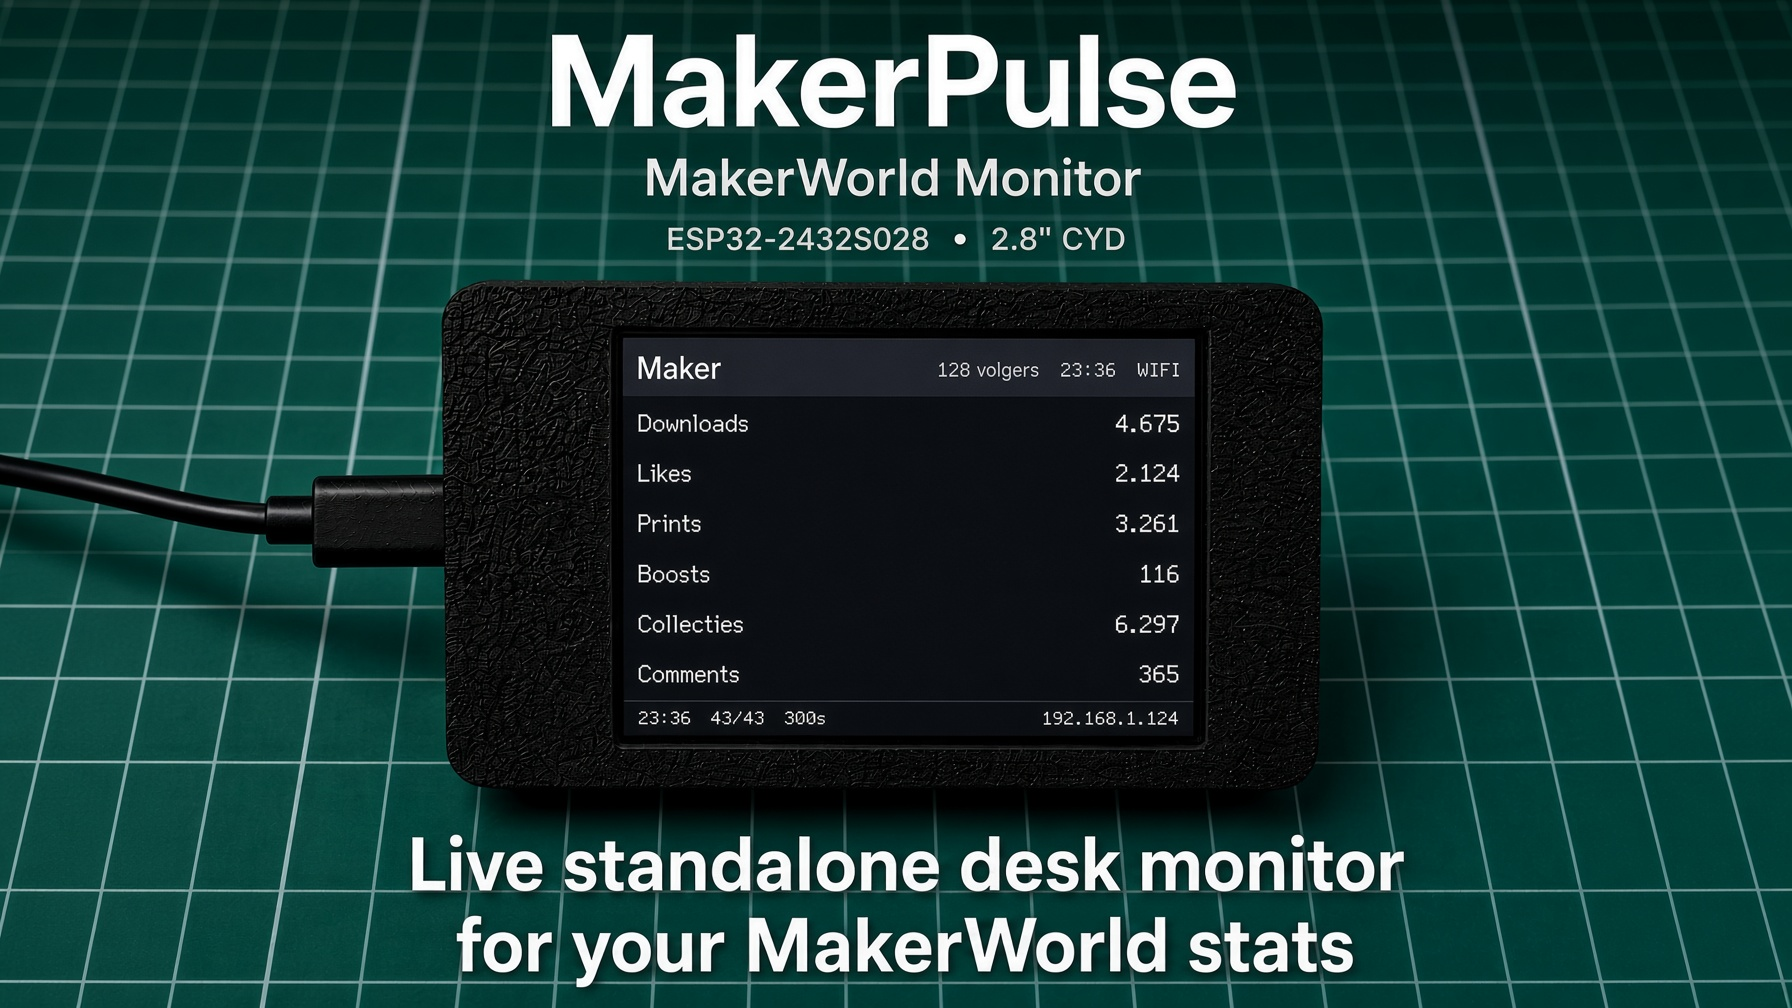
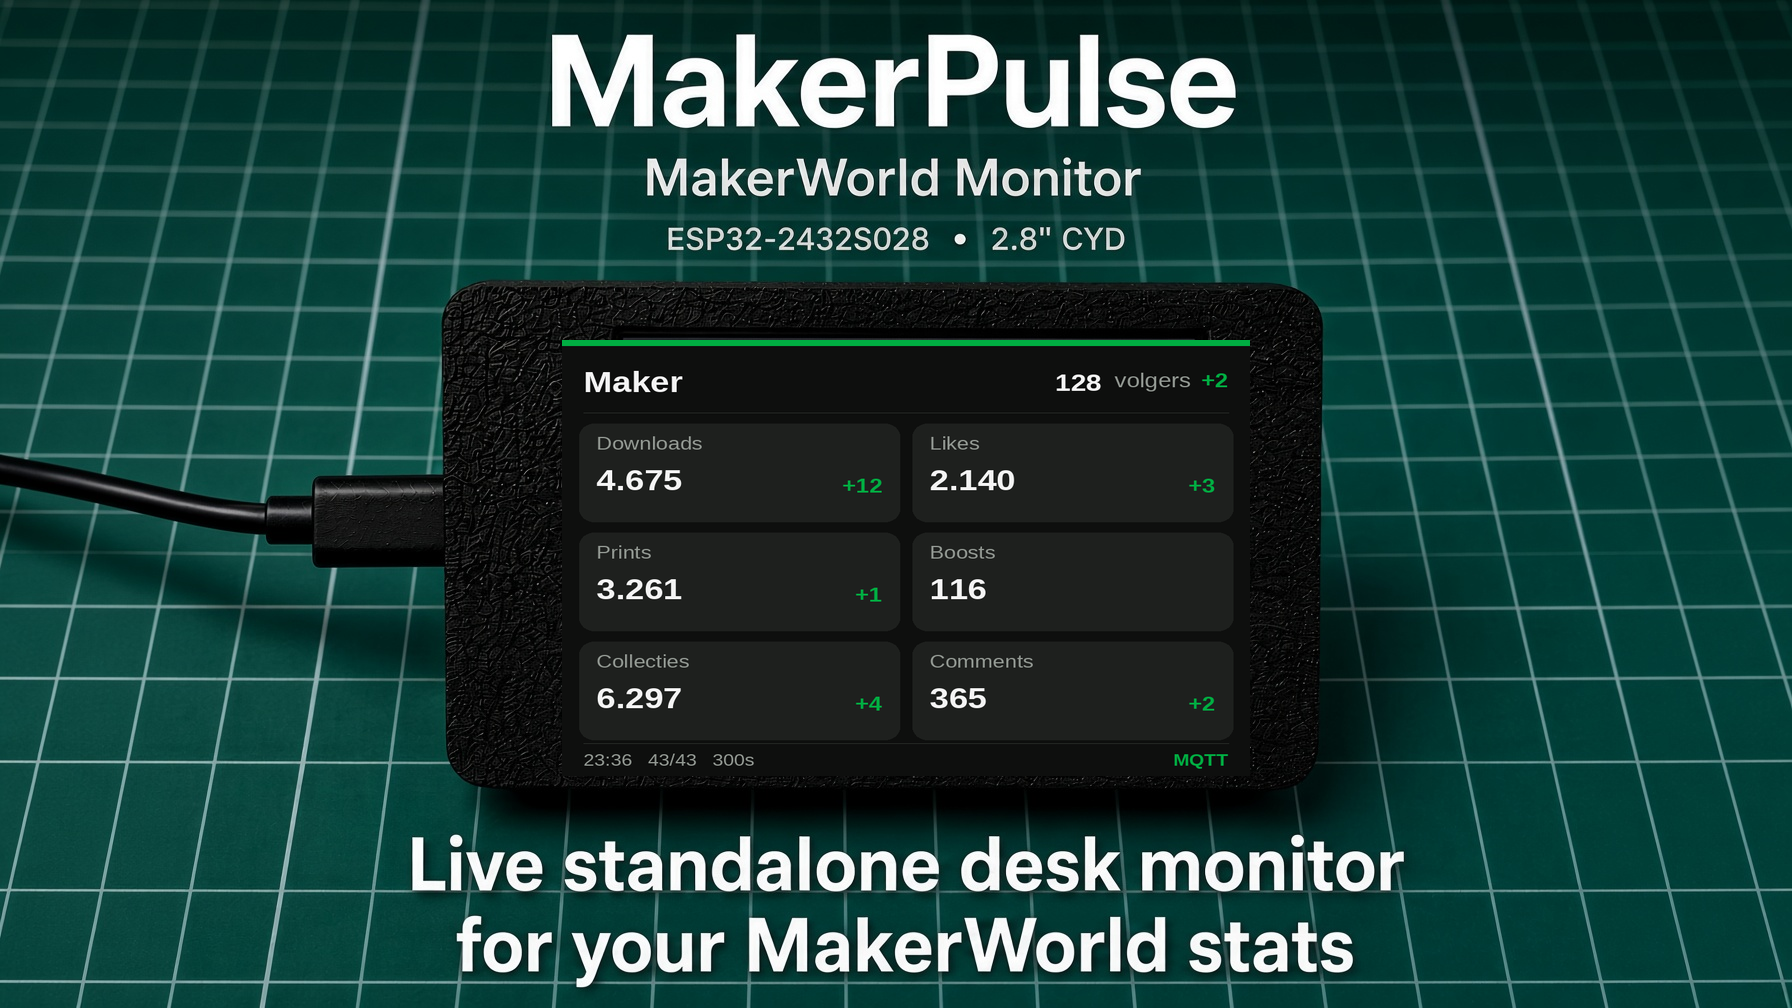
Firmware 2026.11.08a: tile layout for the statistics screen
Show the six totals as dark tiles under a green bar, and refresh the
example images. The checks, Telegram and MQTT behaviour are unchanged.

Changed region(s): [[0.3125, 0.3383, 0.6875, 0.7688], [0.4688, 0.4306, 0.5625, 0.4921], [0.5312, 0.5228, 0.5625, 0.6151]]

diff --git a/README.md b/README.md
@@ -10,7 +10,7 @@ Downloads, likes, prints, boosts, collections and comments — when a value chan
 
 After flashing, the CYD talks to MakerWorld on its own. You can close the browser.
 
-**Firmware:** [`2026.11.07n`](firmware/MakerPulse_CYD.ino) · **License:** [MIT](LICENSE)
+**Firmware:** [`2026.11.08a`](firmware/MakerPulse_CYD.ino) · **License:** [MIT](LICENSE)
 
 ---
 

diff --git a/CHANGELOG.md b/CHANGELOG.md
@@ -1,5 +1,11 @@
 # Changelog
 
+## 2026.11.08a
+
+### Changed
+
+- The statistics screen uses a dark tile layout with a green bar. The six totals, the changes, the follower count and the status line stay the same.
+
 ## 2026.11.07
 
 ### Added
